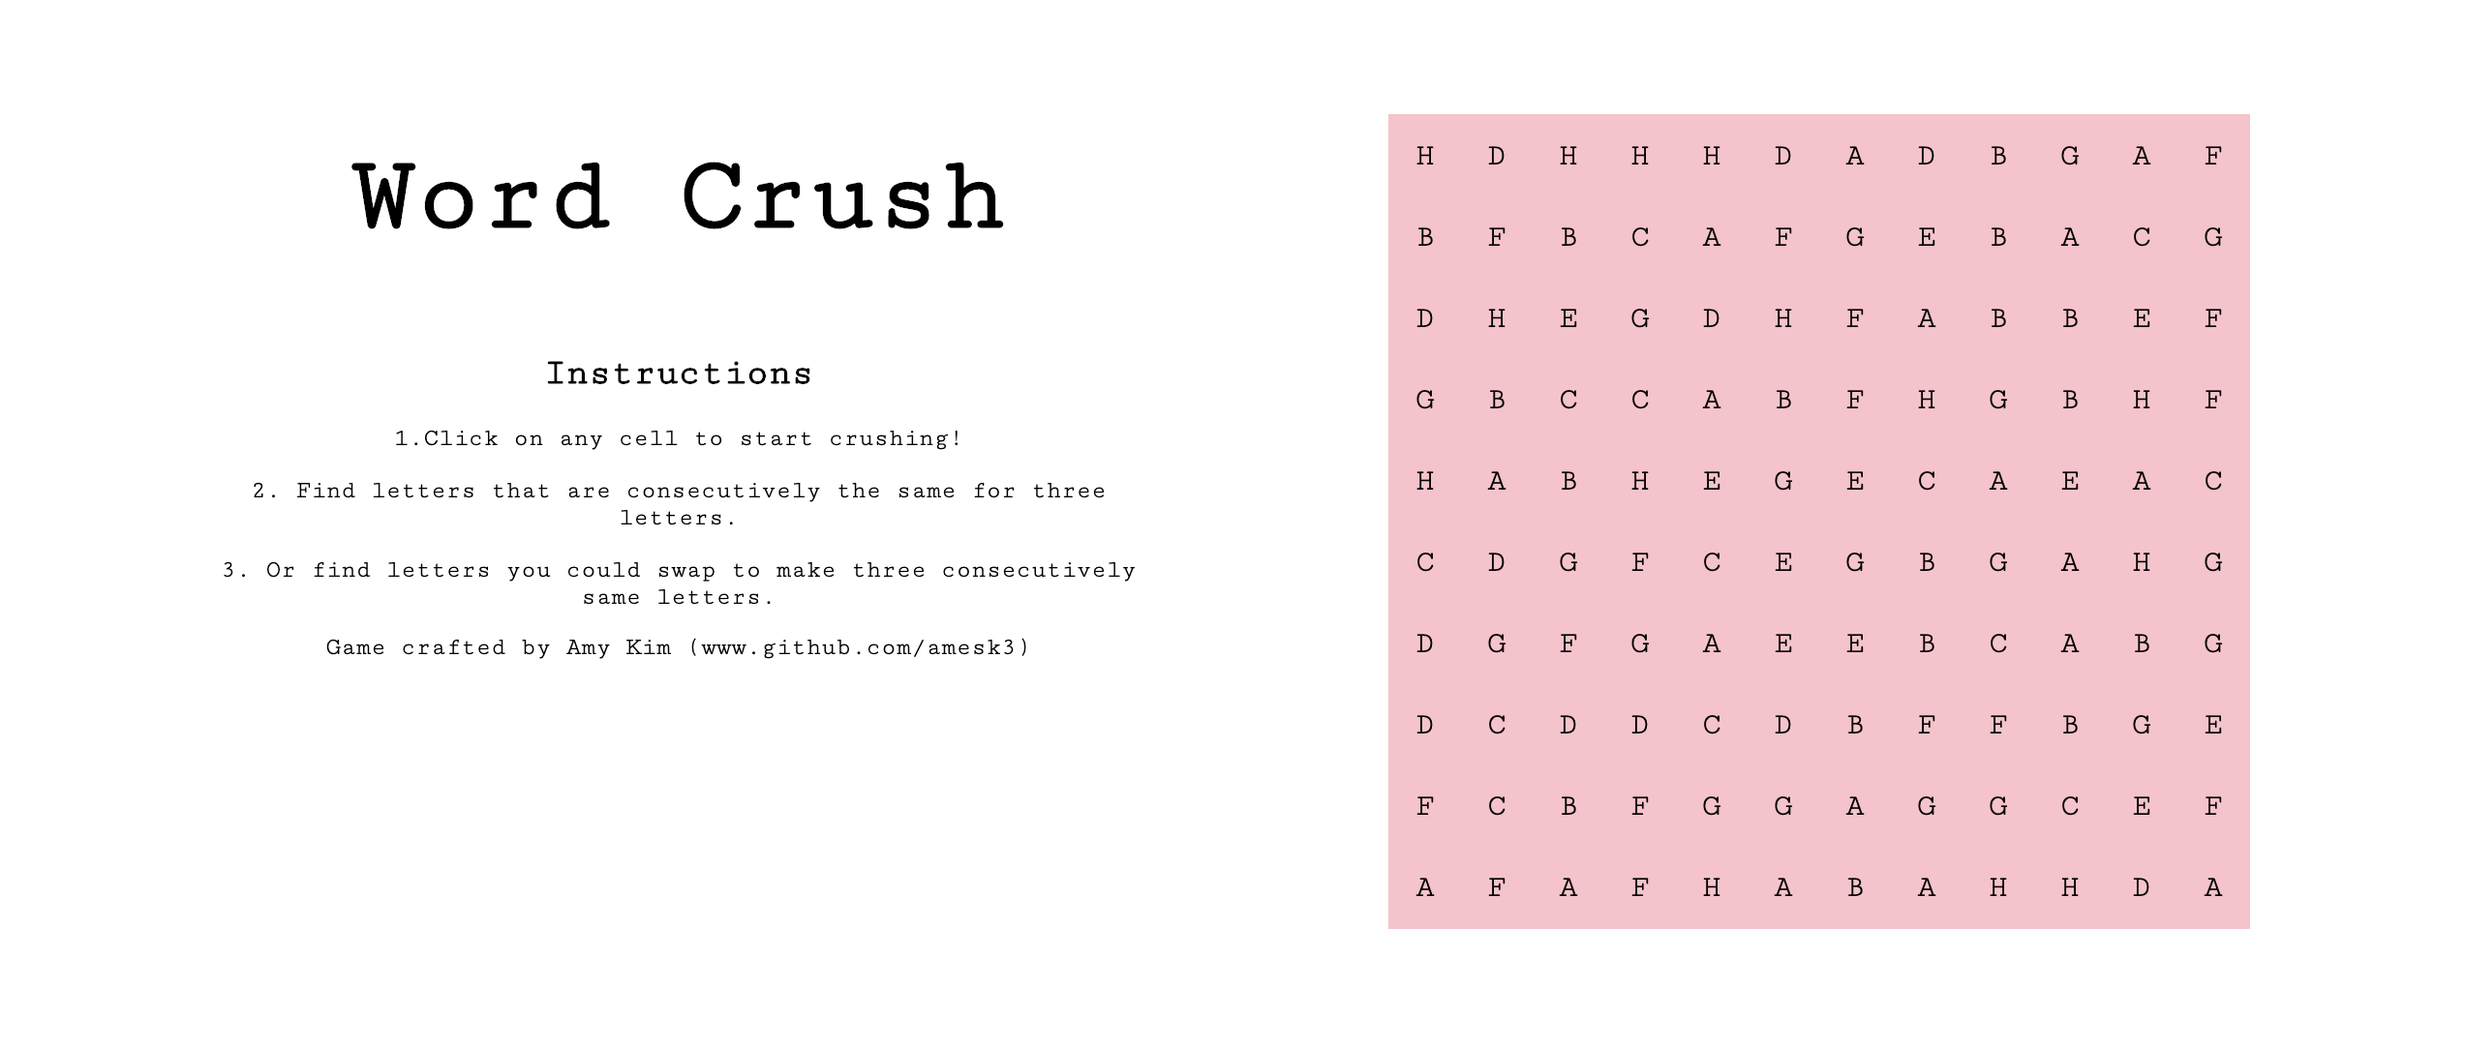
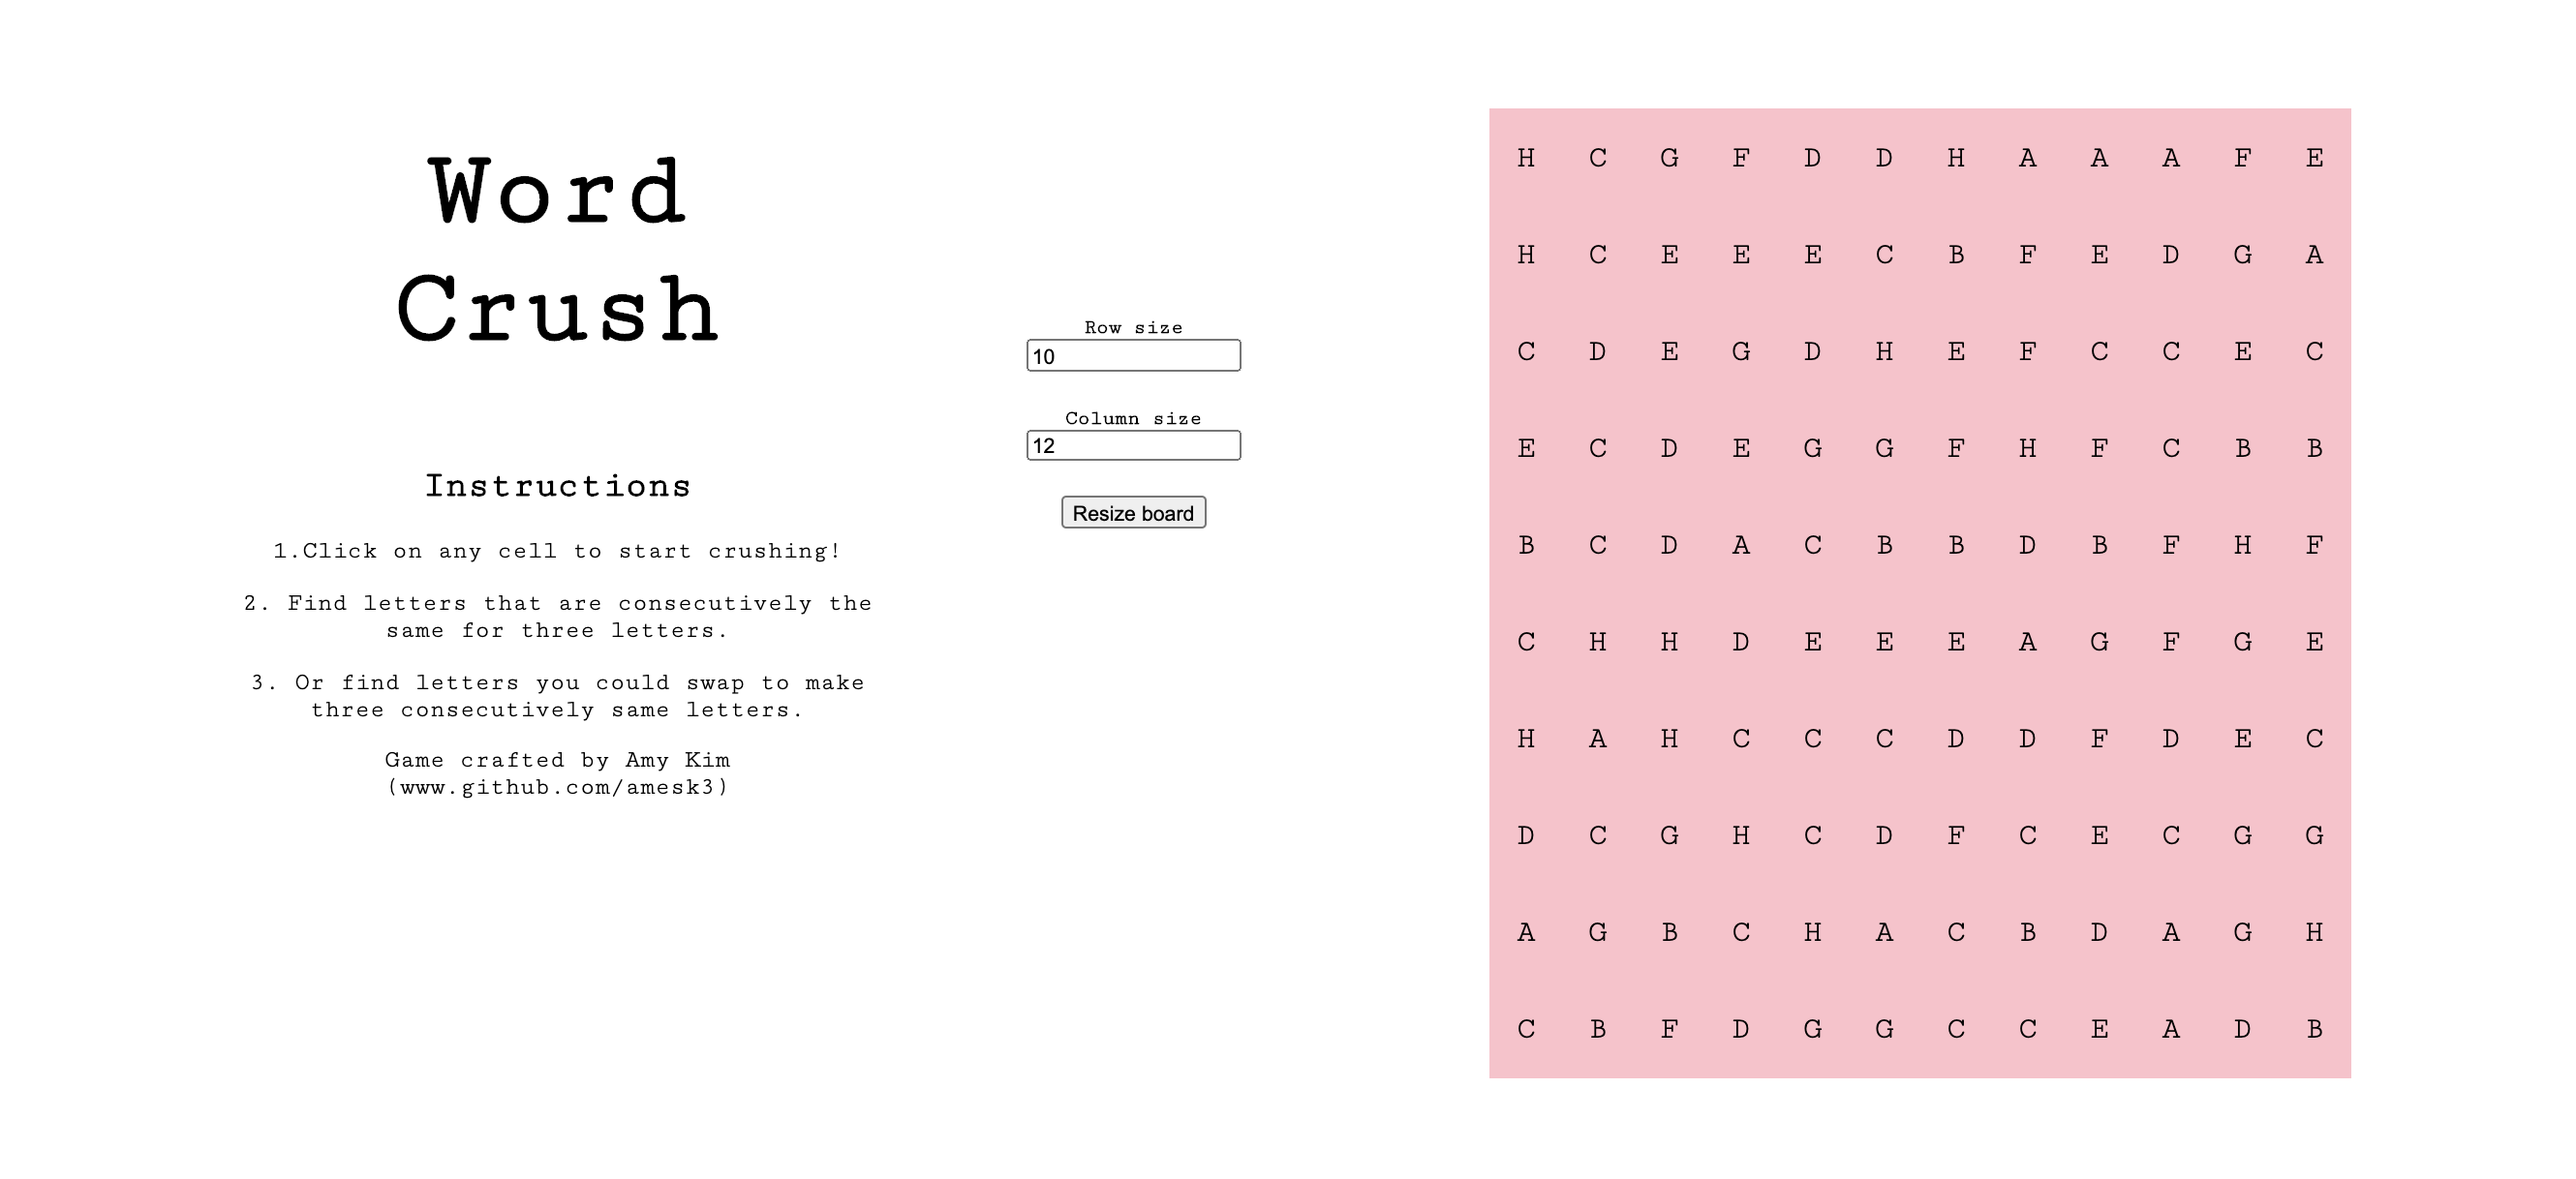
added row and col change functionality

diff --git a/src/Board.js b/src/Board.js
@@ -28,15 +28,32 @@ const tdStyle = {
   fontFamily: 'Cutive Mono, monospace',
   padding: '0 1rem 0 1rem ',
   textAlign:'center'
+}
 
+const formStyle = {
+  margin: '10rem 0 0 5rem'
 }
 
 function Board(props) {
-  const { height, width } = props
-  
-  const newBoard = createNewBoard(height, width)
+  // const { height, width } = props
+  const [height, setHeight] = useState(10)
+  const [width, setWidth] = useState(12)  
+  let newBoard = createNewBoard(height, width)
   const [boardData, setBoardData] = useState(newBoard)
+  
   let clickedCell = []
+
+  useEffect(() => {
+    setBoardData(createNewBoard(height, width))
+    renderTableHandle(boardData)
+  },[height, width]);
+  
+  const handleSubmit = () => {
+    setHeight(height)
+    setWidth(width)
+    
+  }
+  
   
   
   const handleCellClick = (x, y, value) => {
@@ -93,10 +110,17 @@ function Board(props) {
       )
     })
   }
-  
   return (
     <div style={body}>
-     
+      <form style={formStyle}>
+        <h5>Row size
+      <input value={height} onChange={e => setHeight(e.target.value)} /></h5>
+        <h5>
+      Column size
+      <input value={width} onChange={e => setWidth(e.target.value)} />
+        </h5>
+        <button type="submit" value="Submit" onClick={()=>handleSubmit}>Resize board </button>
+      </form>
       <table style={tableStyle}>
         {renderTableHandle(boardData)}    
       </table>

diff --git a/src/Game.js b/src/Game.js
@@ -1,4 +1,4 @@
-import React, { useState} from 'react';
+import React, { useState, useEffect} from 'react';
 import Board from './Board'
 
 const body = {
@@ -15,13 +15,13 @@ const header = {
 }
 
 
-function Game() {
-  const [height, setHeight] = useState(10)
-  const [width, setWidth] = useState(12)
+function Game() {  
   return (
     <div style={body}>
       <div>
-      <h1 style={header}>Word Crush</h1>
+        <h1 style={header}>Word Crush</h1>
+        
+
         <h2>Instructions</h2>
         <p>
           1.Click on any cell to start crushing!
@@ -34,7 +34,7 @@ function Game() {
         </p>
       <footer> Game crafted by Amy Kim (www.github.com/amesk3)</footer>
       </div>
-      <Board height={height} width={width} />
+      <Board/>
     </div>
   );
 }
